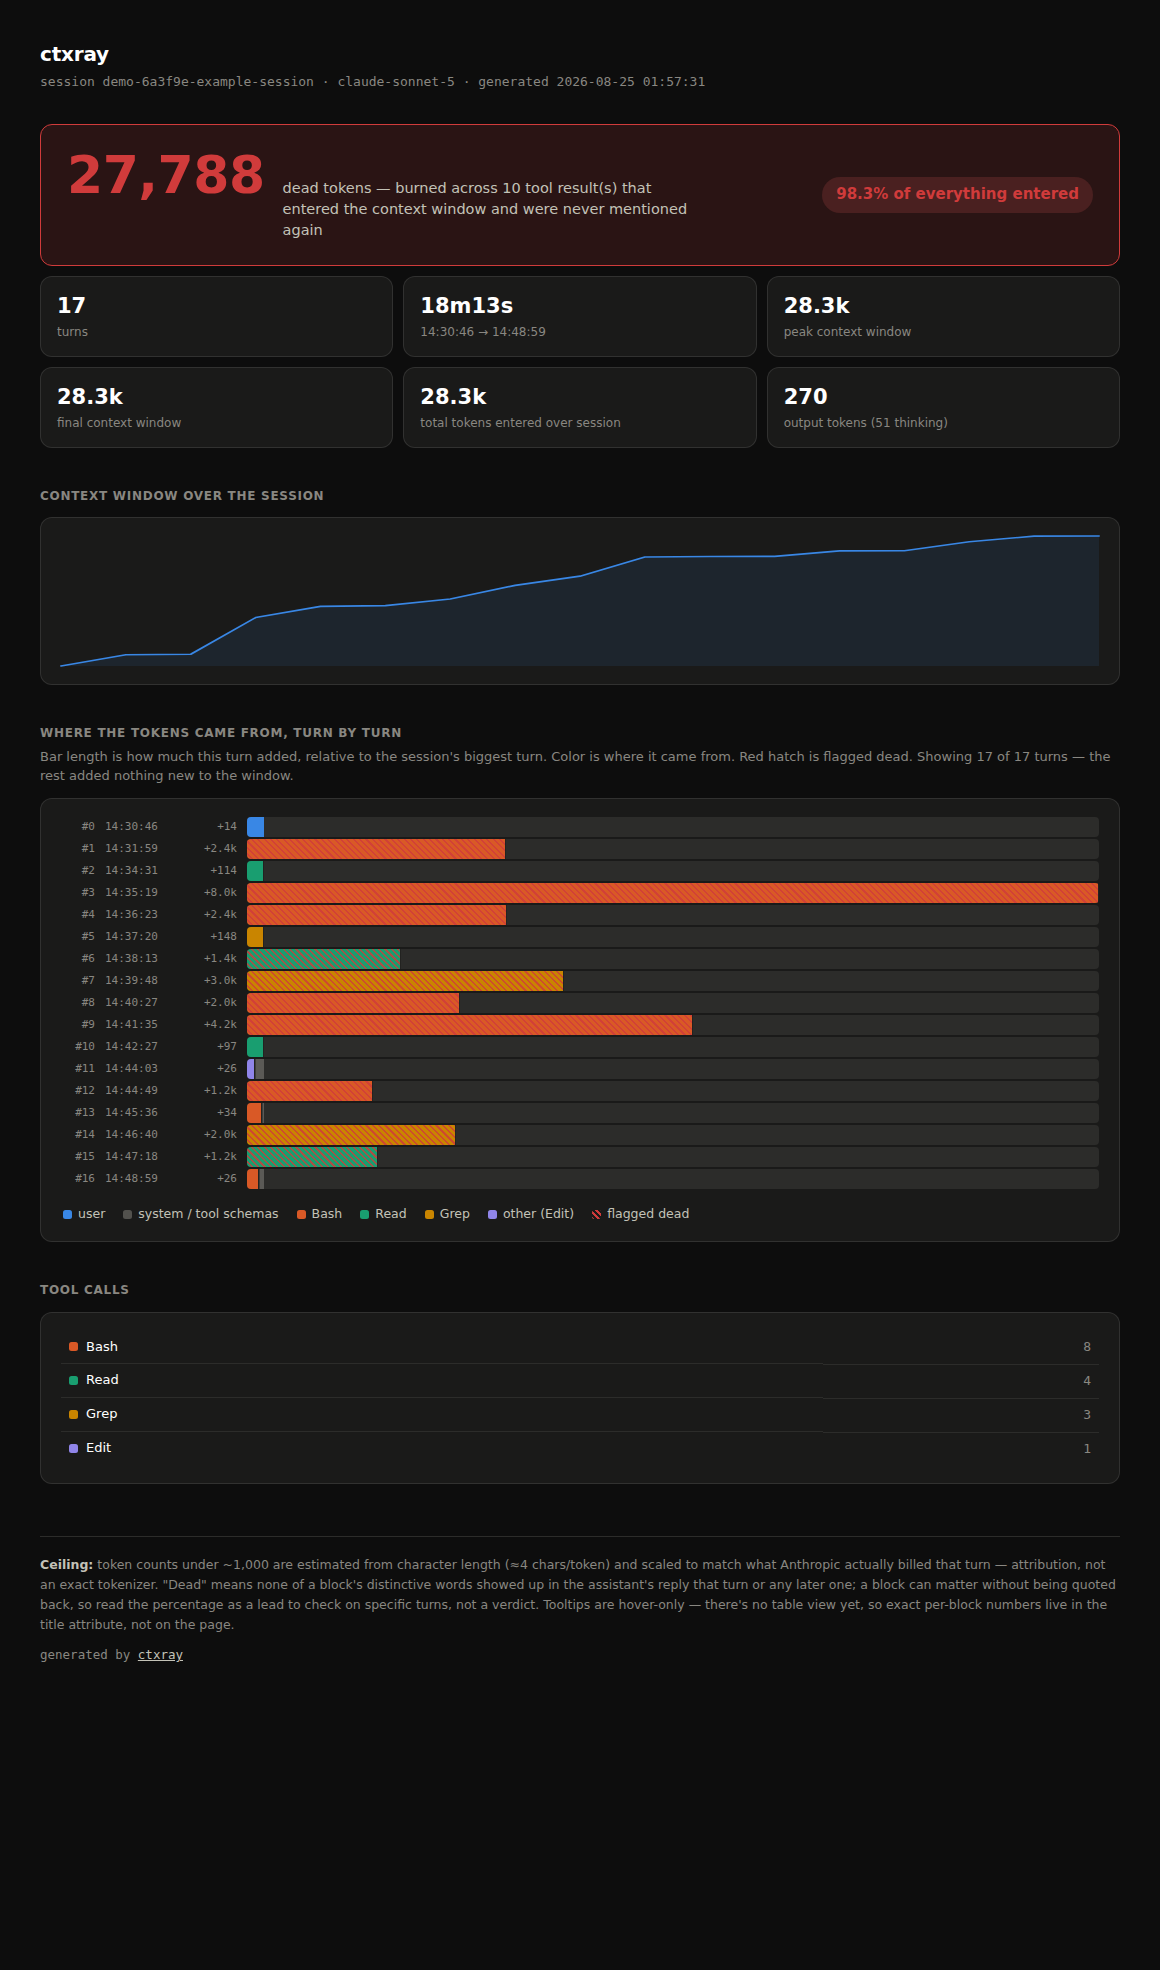
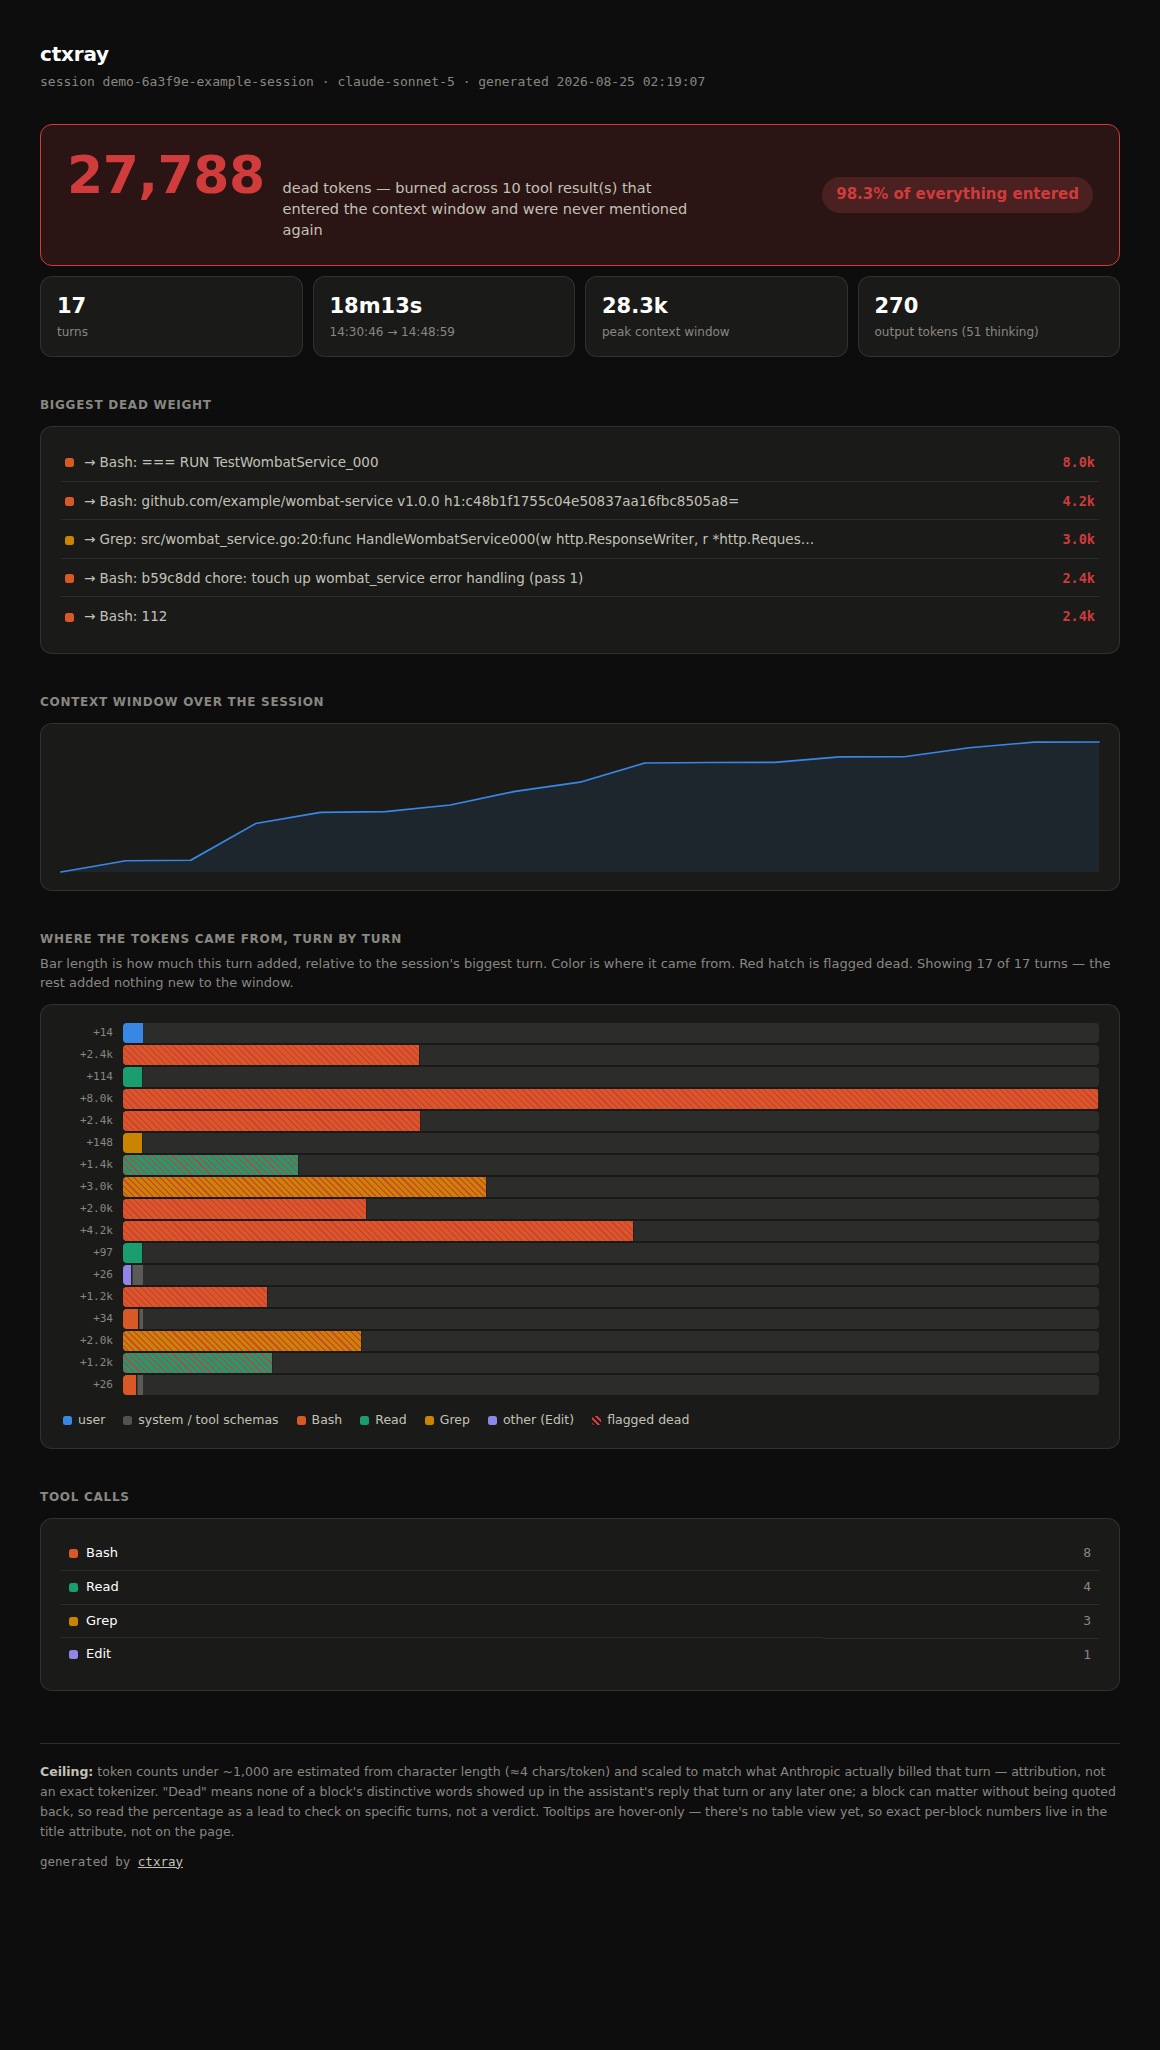
Cut density: a plain top-5 dead-weight list, fewer stat cards, quieter rows
Read raw READMEs directly this time (curl, not the summarizing WebFetch
tool) from repos that actually exploded recently — diagram-design,
llmfit, mattpocock/skills — plus established ones (fzf, bat, gum,
lazygit) for pattern-checking. The one that mattered most: diagram-
design's own stated principle, "the highest-quality move is usually
deletion... target density 4/10." My report was nowhere near that.

Concrete cuts:
- New "Biggest dead weight" section: a plain sorted list of the 5
  largest dead blocks, no chart-reading required. Sorted lists have no
  learning curve; the flamegraph is for the turn-by-turn detail once
  you already know what you're looking for.
- Stat row: 6 cards down to 4. "Final context window" and "total
  tokens entered" were within a few tokens of "peak" on every session
  without compaction — three near-identical big numbers side by side
  is pure redundancy, not information.
- Flamegraph rows: dropped the turn index and clock as separate visible
  columns (two more numbers to parse before the bar). They're still
  there, just in the row's hover title instead of competing for space.

README: mention the new top-5 list in "How it works".

Changed region(s): [[0.031, 0.0, 0.9621, 0.9289], [0.6207, 0.2477, 0.6828, 0.2787], [0.931, 0.2168, 0.9621, 0.2477]]

diff --git a/internal/render/build.go b/internal/render/build.go
@@ -16,6 +16,7 @@ func buildViewModel(report analyze.Report) ViewModel {
 		GeneratedAt: time.Now().Format("2006-01-02 15:04:05"),
 		Models:      joinModels(report.Models),
 		Stats:       buildStatsVM(report.Stats),
+		TopDead:     buildTopDead(report.Turns),
 		Turns:       buildTurnVMs(report.Turns),
 		TimelineSVG: template.HTML(buildTimelineSVG(report.Timeline)), //nolint:gosec // server-generated SVG, no user input reaches raw markup
 		Legend:      buildLegend(report.Turns),
@@ -36,8 +37,6 @@ func buildStatsVM(s analyze.Stats) StatsVM {
 		Duration:            formatDuration(s.Duration),
 		StartClock:          formatClock(s.StartTime),
 		EndClock:            formatClock(s.EndTime),
-		TotalContextEntered: formatTokens(s.TotalContextEntered),
-		FinalContextTokens:  formatTokens(s.FinalContextTokens),
 		PeakContextTokens:   formatTokens(s.PeakContextTokens),
 		TotalOutputTokens:   formatTokens(s.TotalOutputTokens),
 		TotalThinkingTokens: formatTokens(s.TotalThinkingTokens),
@@ -46,6 +45,40 @@ func buildStatsVM(s analyze.Stats) StatsVM {
 		DeadTokenPct:        formatPct(s.DeadTokenPct),
 		DeadTokenBlocks:     s.DeadTokenBlocks,
 	}
+}
+
+// topDeadCount caps the plain-text ranking — enough to answer "what's the
+// worst of it" at a glance, not a second copy of the whole flamegraph.
+const topDeadCount = 5
+
+// buildTopDead lists the single biggest dead blocks across the whole
+// session, sorted by token count. It exists because a sorted list needs
+// no legend and no learning curve — it's the fastest path to "what
+// should I go look at first", ahead of the chart that shows everything.
+func buildTopDead(turns []analyze.Turn) []TopDeadVM {
+	var dead []analyze.Block
+	for _, t := range turns {
+		for _, b := range t.NewBlocks {
+			if b.Dead {
+				dead = append(dead, b)
+			}
+		}
+	}
+	sort.Slice(dead, func(i, j int) bool { return dead[i].Tokens > dead[j].Tokens })
+	if len(dead) > topDeadCount {
+		dead = dead[:topDeadCount]
+	}
+
+	out := make([]TopDeadVM, len(dead))
+	for i, b := range dead {
+		out[i] = TopDeadVM{
+			Rank:   i + 1,
+			Label:  b.Label,
+			Tokens: formatTokens(b.Tokens),
+			Slot:   string(slotFor(b.Source)),
+		}
+	}
+	return out
 }
 
 // minRowWidthPct keeps a nearly-empty turn visible as a sliver instead of
@@ -76,8 +109,7 @@ func buildTurnVMs(turns []analyze.Turn) []TurnVM {
 			rowWidth = minRowWidthPct
 		}
 		out = append(out, TurnVM{
-			Index:       t.Index,
-			Clock:       formatClock(t.Timestamp),
+			RowTitle:    fmt.Sprintf("turn #%d · %s", t.Index, formatClock(t.Timestamp)),
 			DeltaLabel:  "+" + formatTokens(t.ContextDelta),
 			RowWidthPct: rowWidth,
 			Blocks:      buildBlockVMs(t.NewBlocks, t.ContextDelta),

diff --git a/internal/render/types.go b/internal/render/types.go
@@ -10,10 +10,21 @@ type ViewModel struct {
 	GeneratedAt string
 	Models      string
 	Stats       StatsVM
+	TopDead     []TopDeadVM
 	Turns       []TurnVM
 	TimelineSVG template.HTML
 	Legend      []LegendItem
 	ToolCalls   []ToolCallVM
+}
+
+// TopDeadVM is one row of the plain-text "biggest dead weight" ranking —
+// no chart, no legend to learn, just a sorted list of what to go look at
+// first.
+type TopDeadVM struct {
+	Rank   int
+	Label  string
+	Tokens string
+	Slot   string
 }
 
 type StatsVM struct {
@@ -21,8 +32,6 @@ type StatsVM struct {
 	Duration            string
 	StartClock          string
 	EndClock            string
-	TotalContextEntered string
-	FinalContextTokens  string
 	PeakContextTokens   string
 	TotalOutputTokens   string
 	TotalThinkingTokens string
@@ -33,8 +42,7 @@ type StatsVM struct {
 }
 
 type TurnVM struct {
-	Index       int
-	Clock       string
+	RowTitle    string // "turn #14 · 00:36:37" — the index/clock live here, in the hover, instead of as two more columns competing with the bar for attention
 	DeltaLabel  string
 	RowWidthPct float64 // this turn's delta relative to the session's biggest turn — a real flamegraph encodes magnitude in length, not just in a text label
 	Blocks      []BlockVM

diff --git a/README.md b/README.md
@@ -57,7 +57,7 @@ Claude Code writes one JSON object per line to `~/.claude/projects/<project>/<se
 2. **What the assistant produced in exchange.** Output tokens split across the reply text, extended thinking, and any tool calls.
 3. **What never got used again.** Every tool result over a size threshold is checked against every assistant turn from that point on — its own reply included. If none of its distinctive content shows up anywhere later, it's flagged dead.
 
-The result renders as one flamegraph-style HTML report: one row per turn, one segment per content source, hatched wherever a block was flagged dead. No server, no build step, no JavaScript — inline CSS and a couple of embedded SVGs, so it opens the same from `file://` as it does hosted anywhere.
+The report leads with a plain sorted list — the five biggest dead blocks, no chart-reading required — then the flamegraph underneath for the turn-by-turn detail: one row per turn that actually added tokens, bar length proportional to how much, hatched wherever a block was flagged dead. No server, no build step, no JavaScript — inline CSS and a couple of embedded SVGs, so it opens the same from `file://` as it does hosted anywhere.
 
 <picture>
   <source media="(prefers-color-scheme: dark)" srcset="docs/screenshot-dark.png">
